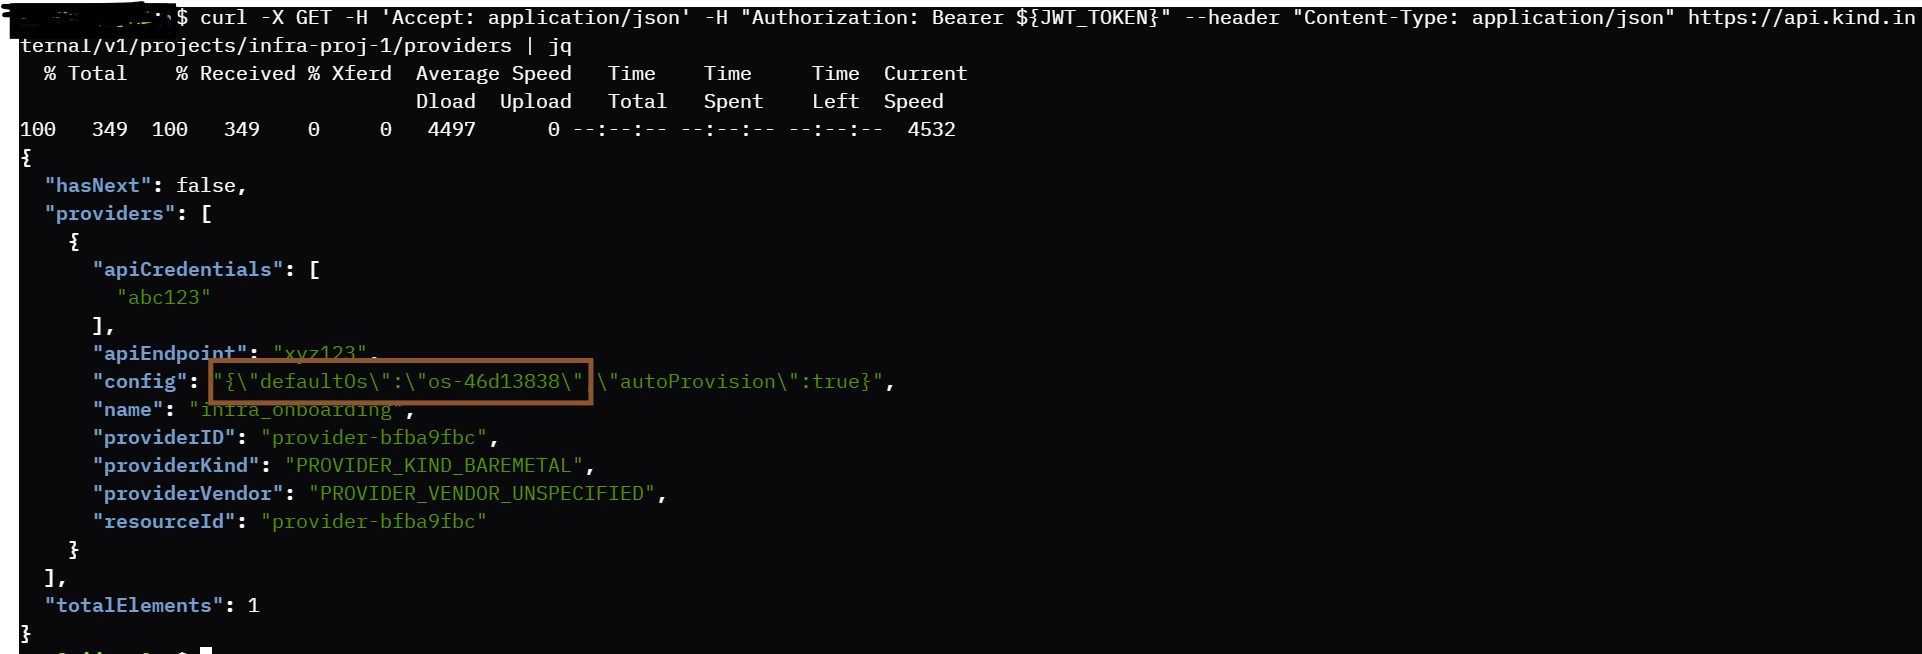
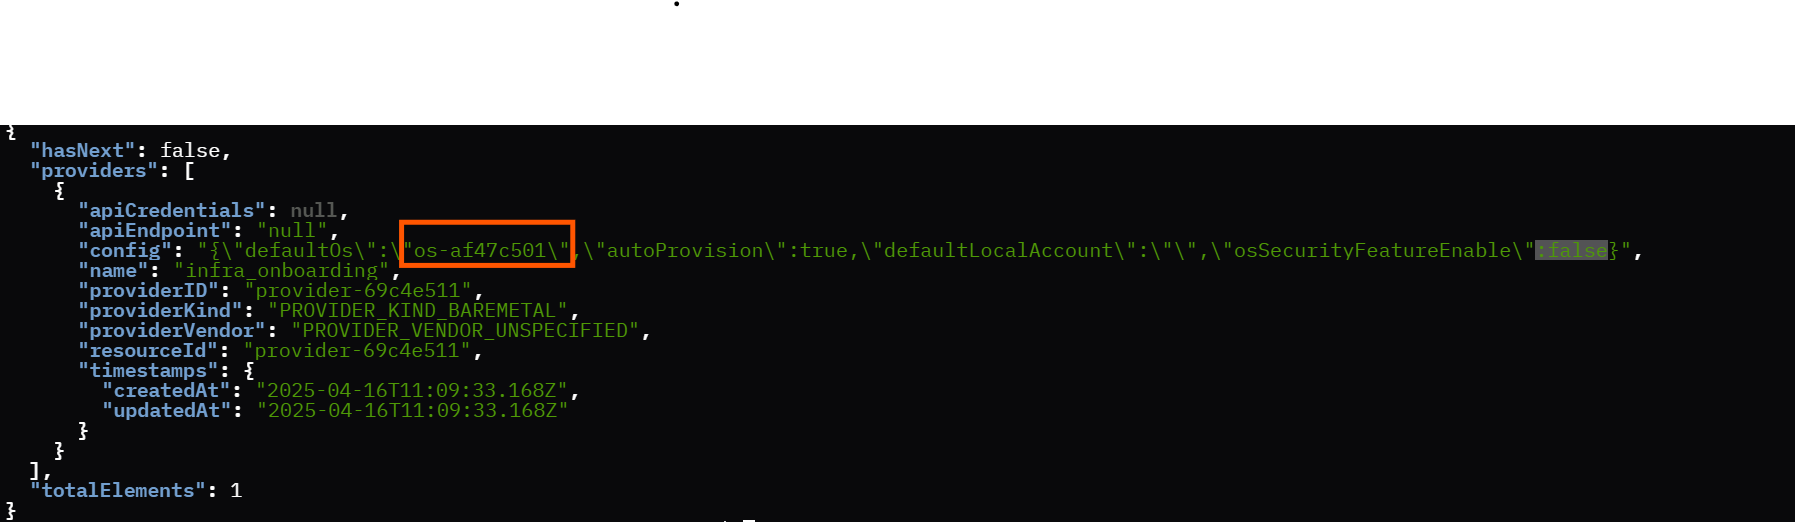
latest image updated

Changed region(s): [[0.0, 0.0, 1.0, 1.0], [0.4368, 0.5824, 0.468, 0.613], [0.0936, 0.9808, 0.1248, 1.0]]

diff --git a/vm-provisioning/README.md b/vm-provisioning/README.md
@@ -244,8 +244,8 @@ wget https://"tinkerbell-nginx.${CLUSTER}"/tink-stack/keys/Full_server.crt --no-
 
 ### Step 7: OS Instance and Providers
 
-VM based provisioning doesn't support secureboot. It needs `"securityFeature":"SECURITY_FEATURE_NONE"` during instance creation.
-Use the following curl to create an OS instance and Provider instance.
+VM-based provisioning does not support Secure Boot; therefore, the "osSecurityFeatureEnable":"false" must be set in the
+provider configuration. Use the following curl command to create an OS instance and a Provider instance.
 
 **Note: The following commands are required to run initially when starting VM provisioning. These configurations will be
 used for further VM provisioning.**
@@ -272,14 +272,15 @@ export JWT_TOKEN=$(curl --location --insecure --request POST "https://keycloak.$
 3. Sample configuration to create a provider with an OS instance:
 curl -X POST "https://api.${CLUSTER}/v1/projects/${PROJECT_NAME}/providers" -H "accept: application/json" \
 -H "Content-Type: application/json" -d '{"providerKind":"PROVIDER_KIND_BAREMETAL","name":"infra_onboarding", \
-"apiEndpoint":"xyz123", "apiCredentials": ["abc123"], "config": "{\"defaultOs\":\"os-51c4eba0\",\"autoProvision\":true}" }' \
+"apiEndpoint":"xyz123", "apiCredentials": ["abc123"], "config": "{\"defaultOs\":\"os-51c4eba0\",\"autoProvision\":true,\"defaultLocalAccount\":\"\",\"osSecurityFeatureEnable\":false}" }' \
 -H "Authorization: Bearer ${JWT_TOKEN}"
 ```
 
 ### Step 8: VMs Creation with Scripts
 
-Currently, VM onboarding and provisioning are supported only for OS profiles (Ubuntu/Microvisor) where the security
-feature is set to `SECURITY_FEATURE_NONE`, and the selected OS profile must be set as the default in the provider config.
+Currently, VM onboarding and provisioning are supported for OS profiles (Ubuntu/Microvisor) where the security
+feature can be set to `SECURITY_FEATURE_NONE` or `SECURITY_FEATURE_SECURE_BOOT_AND_FULL_DISK_ENCRYPTION`,
+and the selected OS profile must be set as the default in the provider config.
 
 ![sample os profile](docs/Security_feature.png)
 ![sample provider config](docs/provider_config.png)
@@ -766,4 +767,4 @@ The following is a list of makefile targets that support developer activities:
 
 To learn more about internals and software architecture
 
-[contributors-guide-url]: https://literate-adventure-7vjeyem.pages.github.io/edge_orchestrator/user_guide_main/content/user_guide/index.html
+[contributors-guide-url]: https://docs.openedgeplatform.intel.com/edge-manage-docs/main/developer_guide/contributor_guide/index.html
